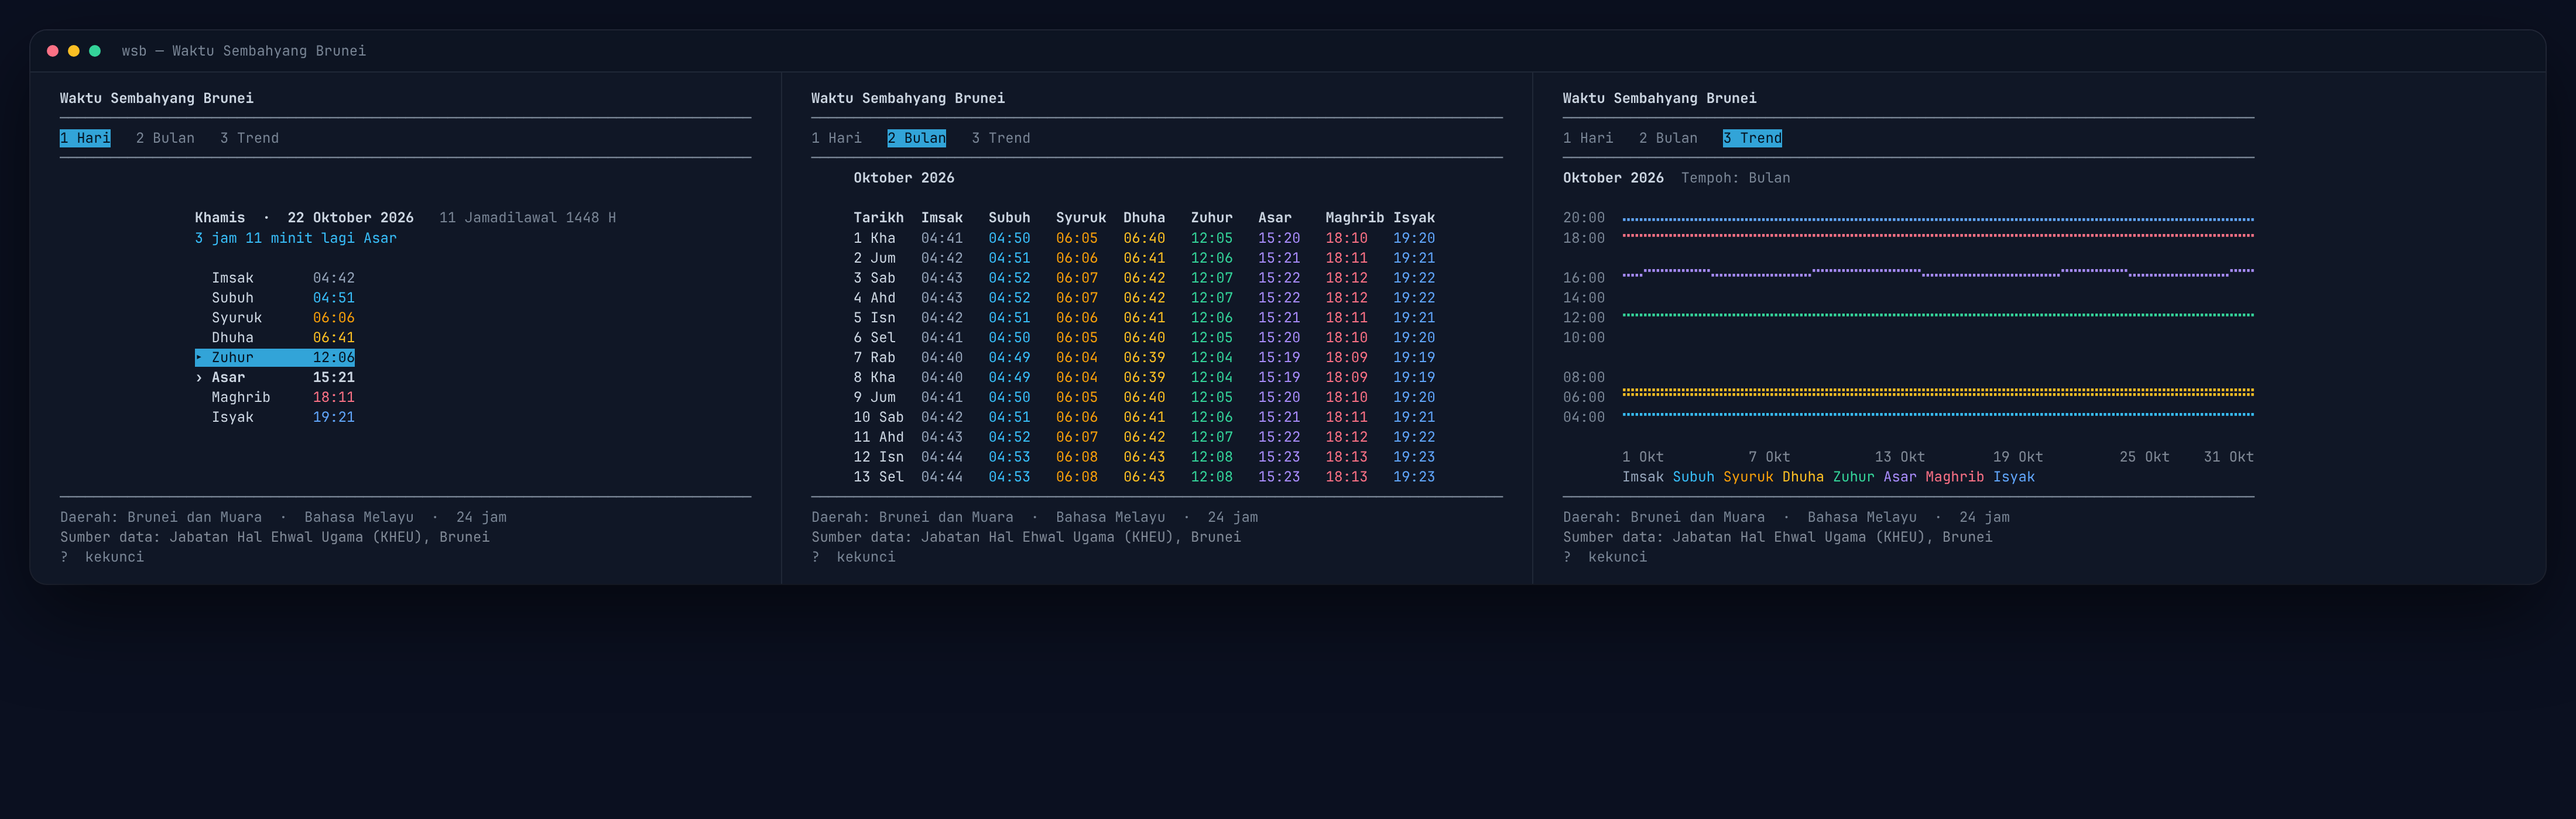
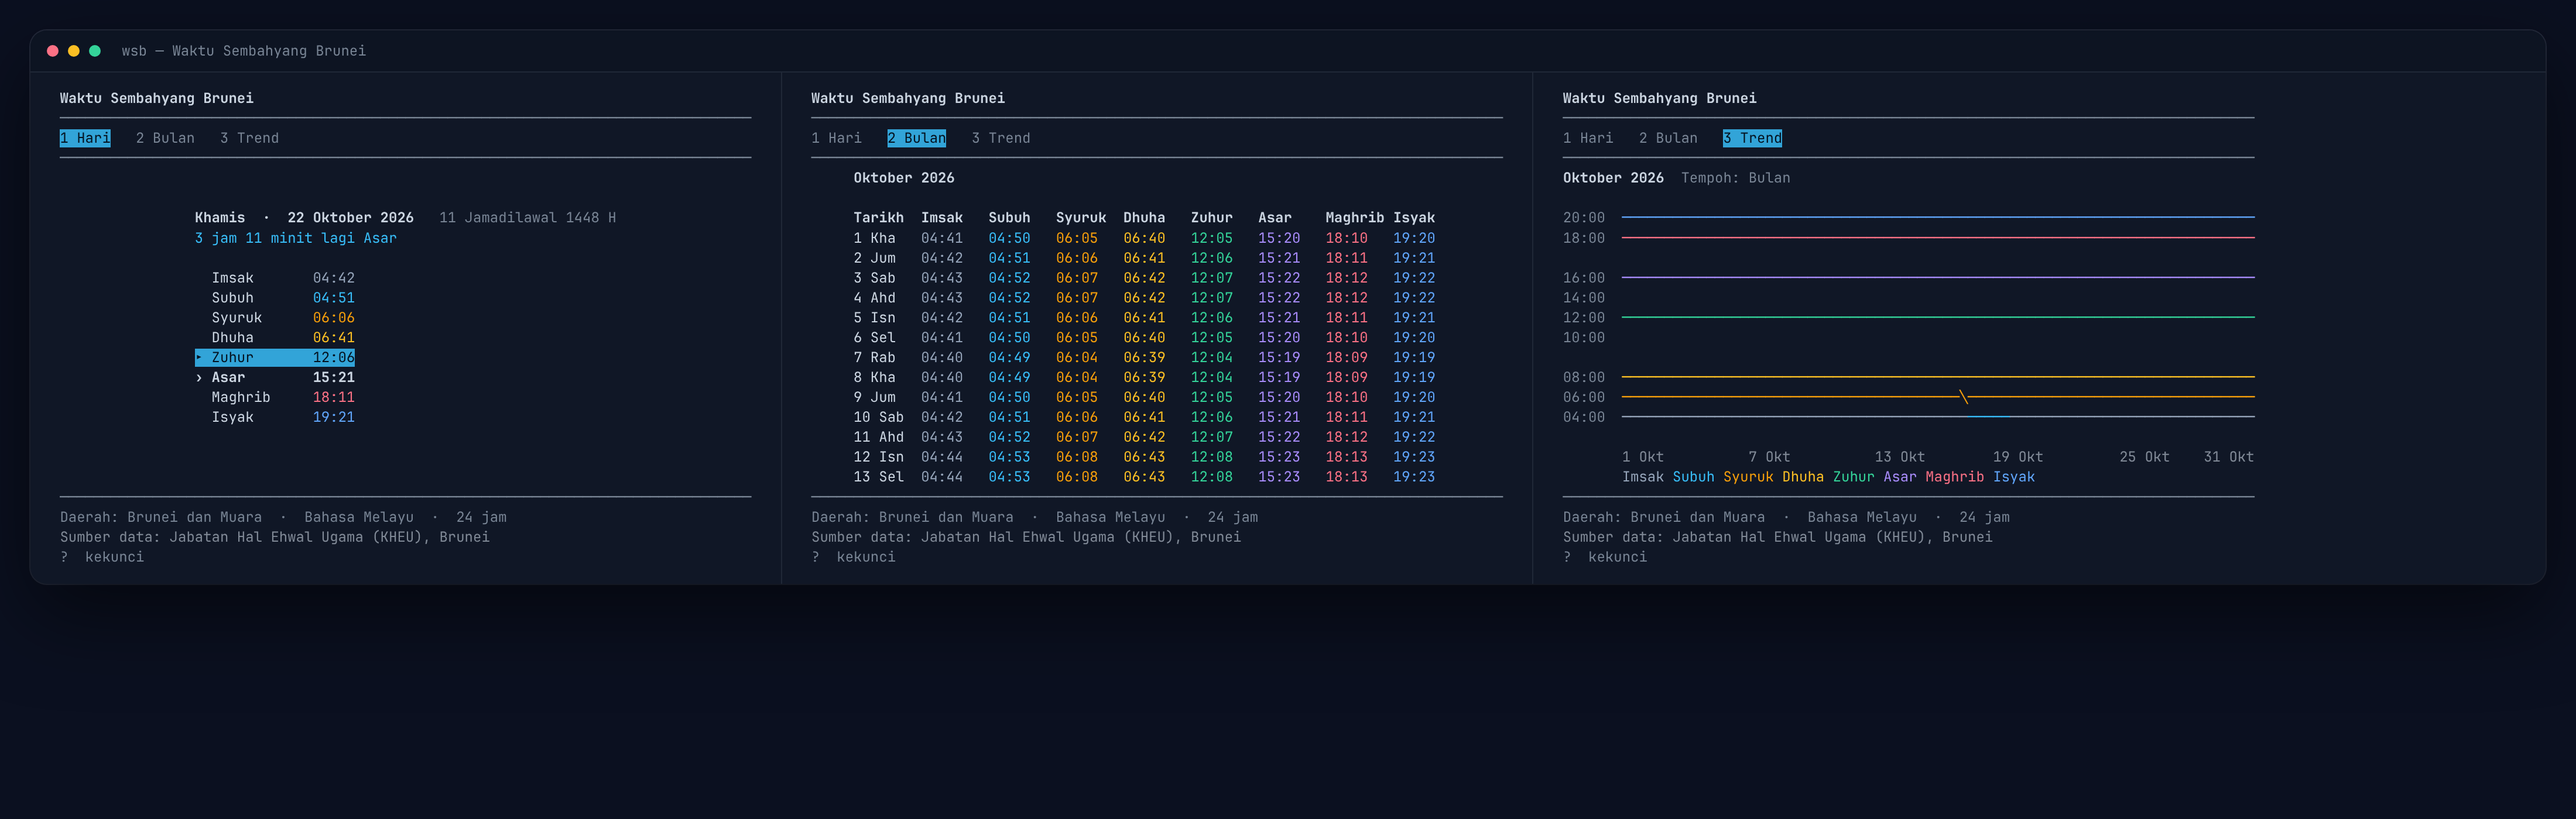
Draw the TUI trend with line glyphs, not braille dots
Braille bottom-dot cells (⣀⣀⣀) rendered as a filled band, so the plot
read as a bar chart. Use real line glyphs (─ │ ╱ ╲) walked with
Bresenham between samples, crossing at ┼/╳, and keep a test that rejects
any filled glyph.

The plot now matches the web chart: thin lines per entry on the shared
minute-of-day axis.

Changed region(s): [[0.6227, 0.4607, 0.8718, 0.5221], [0.6227, 0.2457, 0.8718, 0.3071], [0.6227, 0.3686, 0.8718, 0.3993]]

diff --git a/apps/tui/src/shared/trend.ts b/apps/tui/src/shared/trend.ts
@@ -1,6 +1,6 @@
 // specs/tui/spec.md — trend view model. Mirrors the web chart: one overlapped
 // line per entry on a shared minute-of-day axis, over a week, month or year.
-// Pure model + braille plotting; no terminal I/O and no ANSI here.
+// Pure model + line plotting; no terminal I/O and no ANSI here.
 import {
   PRAYER_ORDER,
   adjustForDistrict,
@@ -137,46 +137,99 @@ export function buildTrendView(
   }
 }
 
-/** One terminal cell of the plot: braille dots plus the entry that drew last. */
+/** One terminal cell of the plot: a line glyph plus the series that drew it. */
 export interface PlotCell {
-  bits: number
+  glyph: string
   prayer: PrayerName | null
 }
 
-const BRAILLE_BASE = 0x2800
-const DOT_BITS = [
-  [0x01, 0x08],
-  [0x02, 0x10],
-  [0x04, 0x20],
-  [0x40, 0x80],
-] as const
+// Line glyphs, not blocks: a filled cell would read as a bar chart. Crossing
+// glyphs appear where two entries pass through the same cell.
+const HORIZONTAL = '─'
+const VERTICAL = '│'
+const UP = '╱'
+const DOWN = '╲'
 
-/** Renders the series into a braille dot grid, `height` rows by `width` cells. */
+/** Merges two glyphs that land on the same cell. */
+function merge(existing: string, incoming: string): string {
+  if (existing === ' ') return incoming
+  if (existing === incoming) return existing
+  const orthogonal =
+    (existing === HORIZONTAL && incoming === VERTICAL) ||
+    (existing === VERTICAL && incoming === HORIZONTAL)
+  if (orthogonal) return '┼'
+  if (
+    (existing === UP && incoming === DOWN) ||
+    (existing === DOWN && incoming === UP)
+  ) {
+    return '╳'
+  }
+  return existing
+}
+
+/** The glyph for one Bresenham step, oriented by the direction of travel. */
+function stepGlyph(dx: number, dy: number): string {
+  if (dy === 0) return HORIZONTAL
+  if (dx === 0) return VERTICAL
+  return dx * dy < 0 ? UP : DOWN
+}
+
+/** Walks a straight line in cell coordinates, yielding each cell it crosses. */
+function traceLine(
+  x0: number,
+  y0: number,
+  x1: number,
+  y1: number,
+  visit: (x: number, y: number, glyph: string) => void,
+): void {
+  let x = x0
+  let y = y0
+  const dx = Math.abs(x1 - x0)
+  const dy = Math.abs(y1 - y0)
+  const sx = x0 < x1 ? 1 : -1
+  const sy = y0 < y1 ? 1 : -1
+  let error = dx - dy
+
+  for (;;) {
+    // The glyph is the direction of the step leaving this cell.
+    const stepX = x === x1 ? 0 : sx
+    const stepY = y === y1 ? 0 : sy
+    visit(x, y, stepGlyph(stepX, stepY))
+    if (x === x1 && y === y1) break
+    const doubled = error * 2
+    if (doubled > -dy) {
+      error -= dy
+      x += sx
+    }
+    if (doubled < dx) {
+      error += dx
+      y += sy
+    }
+  }
+}
+
+/** Renders the series into a `height` x `width` cell grid of line glyphs. */
 export function plotTrend(
   view: TrendView,
   width: number,
   height: number,
 ): PlotCell[][] {
   const cells: PlotCell[][] = Array.from({ length: Math.max(0, height) }, () =>
-    Array.from({ length: Math.max(0, width) }, () => ({ bits: 0, prayer: null })),
+    Array.from({ length: Math.max(0, width) }, () => ({ glyph: ' ', prayer: null })),
   )
   if (width <= 0 || height <= 0 || view.dates.length === 0) return cells
 
-  const dotW = width * 2
-  const dotH = height * 4
   const span = Math.max(1, view.max - view.min)
   const count = view.dates.length
   const xAt = (index: number) =>
-    count <= 1 ? (dotW - 1) / 2 : (index / (count - 1)) * (dotW - 1)
+    count <= 1 ? (width - 1) / 2 : (index / (count - 1)) * (width - 1)
   const yAt = (minutes: number) =>
-    (1 - (minutes - view.min) / span) * (dotH - 1)
+    (1 - (minutes - view.min) / span) * (height - 1)
 
-  const plot = (prayer: PrayerName, x: number, y: number) => {
-    const cx = Math.round(x)
-    const cy = Math.round(y)
-    if (cx < 0 || cy < 0 || cx >= dotW || cy >= dotH) return
-    const cell = cells[Math.floor(cy / 4)]![Math.floor(cx / 2)]!
-    cell.bits |= DOT_BITS[cy % 4]![cx % 2]!
+  const paint = (prayer: PrayerName, x: number, y: number, glyph: string) => {
+    if (x < 0 || y < 0 || x >= width || y >= height) return
+    const cell = cells[y]![x]!
+    cell.glyph = merge(cell.glyph, glyph)
     cell.prayer = prayer
   }
 
@@ -187,36 +240,21 @@ export function plotTrend(
         previous = null
         return
       }
-      const point = { x: xAt(index), y: yAt(value) }
-      if (!previous) {
-        plot(line.prayer, point.x, point.y)
-      } else {
-        const steps = Math.max(
-          1,
-          Math.ceil(
-            Math.max(
-              Math.abs(point.x - previous.x),
-              Math.abs(point.y - previous.y),
-            ),
-          ),
+      const point = {
+        x: Math.round(xAt(index)),
+        y: Math.round(yAt(value)),
+      }
+      if (previous) {
+        traceLine(previous.x, previous.y, point.x, point.y, (x, y, glyph) =>
+          paint(line.prayer, x, y, glyph),
         )
-        for (let step = 1; step <= steps; step += 1) {
-          plot(
-            line.prayer,
-            previous.x + ((point.x - previous.x) * step) / steps,
-            previous.y + ((point.y - previous.y) * step) / steps,
-          )
-        }
+      } else {
+        paint(line.prayer, point.x, point.y, HORIZONTAL)
       }
       previous = point
     })
   }
   return cells
-}
-
-/** The braille character for a cell, or a space when it has no dots. */
-export function braille(cell: PlotCell): string {
-  return cell.bits === 0 ? ' ' : String.fromCodePoint(BRAILLE_BASE + cell.bits)
 }
 
 /** Dates covered by a range anchor, for the loader. */

diff --git a/apps/tui/src/shared/render.ts b/apps/tui/src/shared/render.ts
@@ -13,7 +13,7 @@ import {
 import type { TuiSettings } from './settings.js'
 import type { DayView } from './view.js'
 import { chooseMonthColumns, type MonthView } from './month.js'
-import { braille, plotTrend, type TrendView } from './trend.js'
+import { plotTrend, type TrendView } from './trend.js'
 
 export type ShellView = 'day' | 'month' | 'trend'
 
@@ -273,7 +273,7 @@ function monthBody(view: MonthView | null, options: FrameOptions): string[] {
 }
 
 /** The trend body: one coloured sparkline per entry plus its bounds. */
-/** The trend body: overlapped braille lines on a shared time axis. */
+/** The trend body: overlapped lines on a shared time axis. */
 function trendBody(view: TrendView | null, options: FrameOptions): string[] {
   const color = options.color === true
   const locale = options.locale ?? 'ms'
@@ -320,9 +320,9 @@ function trendBody(view: TrendView | null, options: FrameOptions): string[] {
     const plot = cells[row]!
     const line = plot
       .map((cell) =>
-        braille(cell) === ' '
+        cell.glyph === ' '
           ? ' '
-          : colorize(braille(cell), { color, rgb: prayerRgb(cell.prayer ?? 'imsak') }),
+          : colorize(cell.glyph, { color, rgb: prayerRgb(cell.prayer ?? 'imsak') }),
       )
       .join('')
     lines.push(`${colorize(label, { color, rgb: MUTED })}  ${line}`)

diff --git a/apps/tui/src/shared/views.test.ts b/apps/tui/src/shared/views.test.ts
@@ -227,14 +227,20 @@ describe('trend view', () => {
     expect(trendDates('2026-10-15', 'week')).toHaveLength(7)
   })
 
-  it('plots overlapping braille lines inside the grid', () => {
+  it('plots overlapping lines inside the grid', () => {
     const view = buildTrendView(days, settings, 'month', '2026-10-15')
     const cells = plotTrend(view, 40, 10)
     expect(cells).toHaveLength(10)
     expect(cells.every((row) => row.length === 40)).toBe(true)
-    expect(cells.flat().some((cell) => cell.bits > 0)).toBe(true)
+    expect(cells.flat().some((cell) => cell.glyph !== ' ')).toBe(true)
     const painted = new Set(cells.flat().map((cell) => cell.prayer).filter(Boolean))
     expect(painted.size).toBeGreaterThan(1)
+    // Line glyphs only: a filled cell would read as a bar chart.
+    const glyphs = new Set(cells.flat().map((cell) => cell.glyph))
+    for (const glyph of glyphs) {
+      expect([' ', '─', '│', '╱', '╲', '┼', '╳']).toContain(glyph)
+    }
+    expect(glyphs.has('─')).toBe(true)
   })
 
   it('renders a full frame with the trend tab active', () => {

diff --git a/specs/tui/spec.md b/specs/tui/spec.md
@@ -32,8 +32,9 @@ platform glue only; no domain rules.
   kept and Imsak/Syuruk/Dhuha go first; the title reports how many are hidden
   (`+3 hidden`). Columns always stay in calendar order.
 - **Trend** mirrors the web chart: the eight entries drawn as overlapping
-  coloured lines on one shared minute-of-day axis, over a **week**, **month** or
-  **year**. The y axis is labelled at the same rounded ticks the web chart uses
+  coloured **line** segments (`─`, `│`, `╱`, `╲`, crossing at `┼`/`╳`) on one
+  shared minute-of-day axis, over a **week**, **month** or **year**. Filled
+  cells are never used, so the plot cannot read as a bar chart. The y axis is labelled at the same rounded ticks the web chart uses
   and the x axis places its date labels under the columns they belong to. A
   legend names the colours. `w`/`m`/`y` switch the range, `[`/`]` (or `p`/`n`)
   move by one period, `t` returns to the current period. A missing day leaves a
@@ -177,3 +178,5 @@ platform glue only; no domain rules.
   report how many are hidden; drop whole footer parts instead of clipping.
 - 2026-10-22 — make the trend a real overlapped line chart on a shared axis
   with week/month/year ranges, centre the content, and align x labels.
+- 2026-10-22 — draw the trend with line glyphs instead of braille dots, which
+  read as filled bars.
